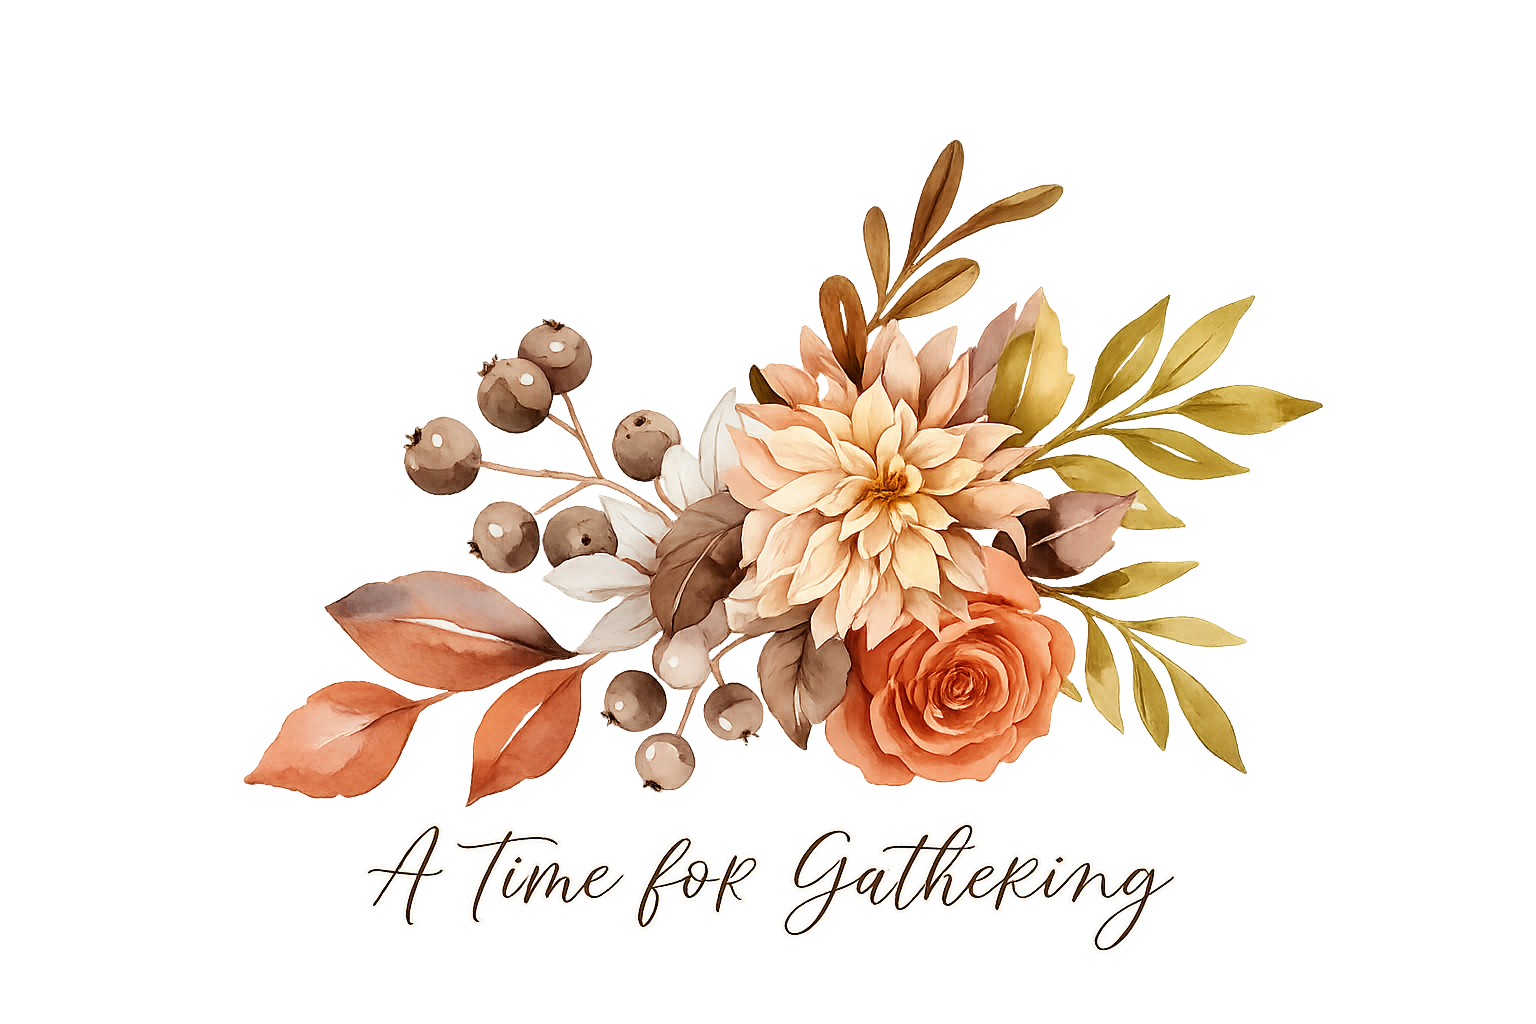
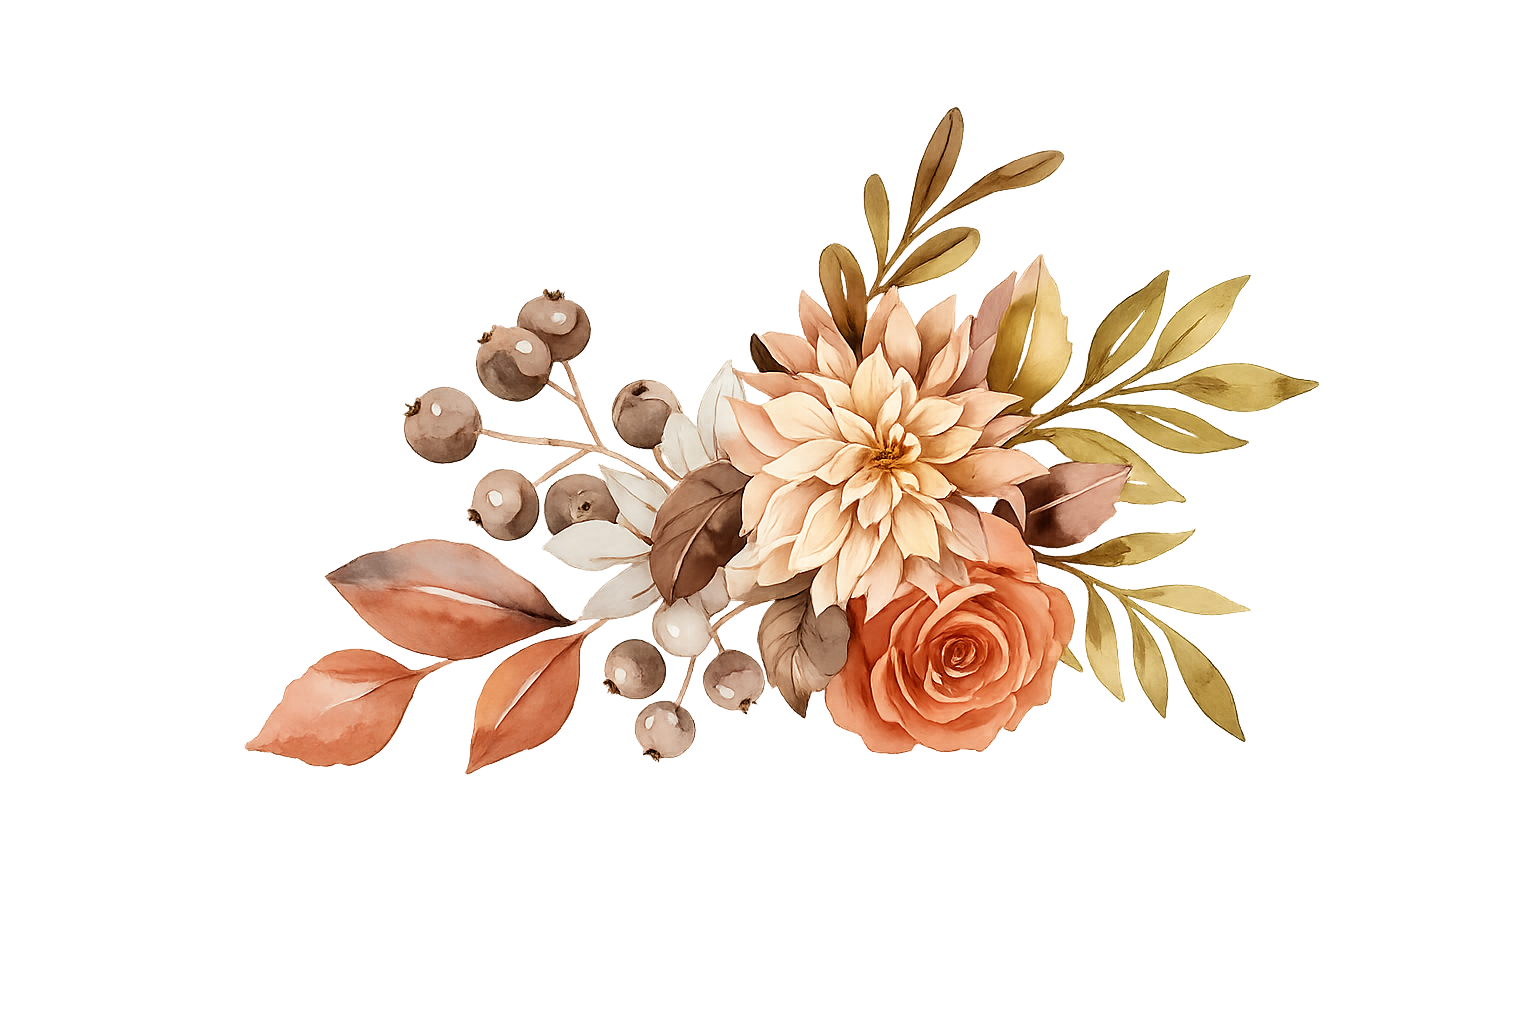
fix: actualizar Supabase anon key y agregar workflow keep-alive
- Reemplaza la clave incorrecta (sb_publishable_...) por el JWT válido en index.html (x2) y admin.html
- Agrega GitHub Action que hace ping a Supabase cada 3 días para evitar pausas por inactividad
- Nuevas fotos florales en assets/

Changed region(s): [[0.1562, 0.0938, 0.875, 0.7812], [0.25, 0.8125, 0.75, 0.9062]]

diff --git a/index.html b/index.html
@@ -155,18 +155,15 @@
                 width: 100%;
                 overflow: hidden;
                 line-height: 0;
+                position: relative;
             }
             .floral-band--top {
-                height: 150px;
-                display: flex;
-                align-items: flex-start;
-                justify-content: center;
+                height: 270px;
+                display: block;
             }
             .floral-band--bottom {
-                height: 150px;
-                display: flex;
-                align-items: flex-end;
-                justify-content: center;
+                height: 290px;
+                display: block;
             }
             .floral-band__img {
                 width: 100%;
@@ -174,12 +171,14 @@
                 display: block;
                 opacity: 0.9;
             }
-            .floral-band--top .floral-band__img {
-                margin-top: -2.5rem;
-            }
-            .floral-band--bottom .floral-band__img {
-                transform: rotate(180deg);
-                margin-bottom: -2.5rem;
+            /* =============================================
+       BLOCK: floral-deco  (corner / edge decorators)
+       ============================================= */
+            .floral-deco {
+                position: absolute;
+                pointer-events: none;
+                display: block;
+                mix-blend-mode: multiply;
             }
 
             /* =============================================
@@ -239,7 +238,7 @@
        BLOCK: inv-header
        ============================================= */
             .inv-header {
-                padding: 0 2.5rem 3rem;
+                padding: 0.75rem 2.5rem 3rem;
                 text-align: center;
             }
             .inv-header__verse {
@@ -376,12 +375,12 @@
                 margin: 0.5rem 0;
             }
             .ornament-divider__img {
-                width: 52px;
+                width: 180px;
                 height: auto;
-                opacity: 0.6;
+                mix-blend-mode: multiply;
             }
             .ornament-divider--flipped .ornament-divider__img {
-                transform: rotate(180deg);
+                transform: scaleX(-1) rotate(8deg);
             }
 
             /* =============================================
@@ -1315,6 +1314,10 @@
                 z-index: 9999;
                 pointer-events: none;
                 transition: opacity 1s cubic-bezier(0.4, 0, 0.2, 1);
+                animation: page-reveal-out 1s 0.8s forwards;
+            }
+            @keyframes page-reveal-out {
+                to { opacity: 0; visibility: hidden; }
             }
 
             /* Diagonal gold pattern on outer bg */
@@ -2070,13 +2073,11 @@
                     border-right-width: 8px;
                 }
 
-                .floral-band--top,
-                .floral-band--bottom {
-                    height: 180px;
-                }
+                .floral-band--top { height: 270px; }
+                .floral-band--bottom { height: 290px; }
 
                 .inv-header {
-                    padding: 0 3rem 3.5rem;
+                    padding: 0.75rem 3rem 3.5rem;
                 }
                 .inv-header__monogram {
                     font-size: 3.25rem;
@@ -2221,13 +2222,11 @@
                     right: -14px;
                 }
 
-                .floral-band--top,
-                .floral-band--bottom {
-                    height: 200px;
-                }
+                .floral-band--top { height: 300px; }
+                .floral-band--bottom { height: 310px; }
 
                 .inv-header {
-                    padding: 0 3.5rem 4rem;
+                    padding: 0.75rem 3.5rem 4rem;
                 }
                 .inv-header__monogram {
                     font-size: 3.5rem;
@@ -2622,16 +2621,30 @@
             <main class="invitation" role="main">
                 <!-- TOP FLORAL -->
                 <div class="floral-band floral-band--top" aria-hidden="true">
-                    <img
-                        class="floral-band__img"
-                        alt=""
-                        src="assets/floral.png"
-                    />
-                    <!--src="assets/floral.png"/>-->
+                    <!-- Esquina superior izquierda: arreglo aéreo espejado, grande -->
+                    <img class="floral-deco"
+                         src="assets/flores-5.png" alt=""
+                         style="width:290px; top:-10px; left:-40px; opacity:0.90; transform:scaleX(-1) rotate(-8deg);" />
+                    <!-- Esquina superior derecha: ramo completo coral, grande -->
+                    <img class="floral-deco"
+                         src="assets/flores-1.png" alt=""
+                         style="width:310px; top:-20px; right:-40px; opacity:0.88; transform:rotate(6deg);" />
+                    <!-- Centro: acento mínimo de ligazón, muy sutil -->
+                    <img class="floral-deco"
+                         src="assets/flores-4.png" alt=""
+                         style="width:130px; bottom:10px; left:50%; transform:translateX(-50%) rotate(-2deg); opacity:0.35;" />
                 </div>
 
                 <!-- HEADER -->
-                <section class="inv-header js-fade">
+                <section class="inv-header js-fade" style="position:relative; overflow:hidden;">
+                    <!-- Floral esquina derecha: girasol/pampas — pequeño, solo asoma -->
+                    <img class="floral-deco"
+                         src="assets/flores-3.png" alt=""
+                         style="width:145px; top:30px; right:-58px; opacity:0.42; transform:rotate(-12deg);" aria-hidden="true" />
+                    <!-- Floral esquina izquierda: arreglo aéreo — pequeño, solo asoma -->
+                    <img class="floral-deco"
+                         src="assets/flores-5.png" alt=""
+                         style="width:140px; top:60px; left:-58px; opacity:0.42; transform:scaleX(-1) rotate(8deg);" aria-hidden="true" />
                     <p class="inv-header__verse">
                         "Y sobre todas estas cosas,<br />
                         vístanse de amor, que es el<br />
@@ -2687,7 +2700,8 @@
                         <img
                             class="ornament-divider__img"
                             alt=""
-                            src="assets/floral.png"
+                            src="assets/flores-4.png"
+                            style="width:190px; transform:rotate(-2deg);"
                         />
                     </div>
 
@@ -2704,7 +2718,8 @@
                         <img
                             class="ornament-divider__img"
                             alt=""
-                            src="assets/floral.png"
+                            src="assets/flores-4.png"
+                            style="width:190px;"
                         />
                     </div>
 
@@ -2776,7 +2791,11 @@
                 </div>
 
                 <!-- EVENT DETAILS -->
-                <section class="event-info js-fade">
+                <section class="event-info js-fade" style="position:relative; overflow:hidden;">
+                    <!-- Floral lateral derecho sutil -->
+                    <img class="floral-deco"
+                         src="assets/flores-2.png" alt=""
+                         style="width:195px; top:15px; right:-55px; opacity:0.62; transform:rotate(-12deg);" aria-hidden="true" />
                     <svg
                         class="event-info__icon"
                         fill="none"
@@ -2829,7 +2848,11 @@
                 </section>
 
                 <!-- CÓMO LLEGAR -->
-                <section class="how-to-get js-fade">
+                <section class="how-to-get js-fade" style="position:relative; overflow:hidden;">
+                    <!-- Floral esquina superior derecha sutil -->
+                    <img class="floral-deco"
+                         src="assets/flores-2.png" alt=""
+                         style="width:175px; top:-5px; right:-55px; opacity:0.38; transform:rotate(-10deg);" aria-hidden="true" />
                     <h3 class="section-heading">¿Cómo Llegar?</h3>
                     <div class="how-to-get__cards">
 
@@ -2887,7 +2910,11 @@
                 </section>
 
                 <!-- ITINERARY -->
-                <section class="timeline js-fade">
+                <section class="timeline js-fade" style="position:relative; overflow:hidden;">
+                    <!-- Floral esquina izquierda sutil -->
+                    <img class="floral-deco"
+                         src="assets/flores-4.png" alt=""
+                         style="width:155px; top:10px; left:-48px; opacity:0.42; transform:rotate(8deg);" aria-hidden="true" />
                     <h3 class="section-heading">Itinerario</h3>
 
                     <div
@@ -2898,7 +2925,8 @@
                         <img
                             class="ornament-divider__img"
                             alt=""
-                            src="assets/floral.png"
+                            src="assets/flores-2.png"
+                            style="width:210px; opacity:0.78; transform:rotate(4deg);"
                         />
                     </div>
 
@@ -3044,7 +3072,11 @@
                 </div>
 
                 <!-- NUESTRA HISTORIA -->
-                <section class="story js-fade">
+                <section class="story js-fade" style="position:relative; overflow:hidden;">
+                    <!-- Floral lateral derecho, nuestra historia -->
+                    <img class="floral-deco"
+                         src="assets/flores-1.png" alt=""
+                         style="width:190px; top:10px; right:-50px; opacity:0.56; transform:rotate(-8deg);" aria-hidden="true" />
                     <h3 class="section-heading">Nuestra Historia</h3>
                     <div class="story__list">
                         <div class="story__item" style="transition-delay: 0.1s">
@@ -3087,7 +3119,11 @@
                 </section>
 
                 <!-- GALERÍA -->
-                <section class="gallery js-fade">
+                <section class="gallery js-fade" style="position:relative; overflow:hidden;">
+                    <!-- Floral esquina superior izquierda sutil -->
+                    <img class="floral-deco"
+                         src="assets/flores-5.png" alt=""
+                         style="width:160px; top:0px; left:-50px; opacity:0.40; mix-blend-mode:multiply; transform:scaleX(-1) rotate(5deg);" aria-hidden="true" />
                     <h3 class="section-heading">Nuestra Galería</h3>
                     <p style="font-family:var(--f-serif);font-style:italic;font-size:0.85rem;color:var(--c-text-light);margin:-1.25rem 0 2rem;line-height:1.8;">Momentos que atesoran nuestro amor</p>
 
@@ -3205,7 +3241,11 @@
                 </div>
 
                 <!-- DRESS CODE -->
-                <section class="dresscode js-fade">
+                <section class="dresscode js-fade" style="position:relative; overflow:hidden;">
+                    <!-- Floral lateral izquierdo sutil -->
+                    <img class="floral-deco"
+                         src="assets/flores-4.png" alt=""
+                         style="width:185px; top:15px; left:-50px; opacity:0.65; transform:rotate(10deg);" aria-hidden="true" />
                     <h3 class="section-heading">Código de Vestimenta</h3>
                     <p class="dresscode__style">Semi Formal</p>
                     <span class="dresscode__formal-lbl"
@@ -3283,7 +3323,11 @@
                 </section>
 
                 <!-- GIFTS -->
-                <section class="gifts js-fade">
+                <section class="gifts js-fade" style="position:relative; overflow:hidden;">
+                    <!-- Floral lateral izquierdo, regalos -->
+                    <img class="floral-deco"
+                         src="assets/flores-3.png" alt=""
+                         style="width:195px; top:10px; left:-55px; opacity:0.55; transform:scaleX(-1) rotate(6deg);" aria-hidden="true" />
                     <svg
                         class="gifts__icon"
                         fill="none"
@@ -3739,8 +3783,8 @@
                             <img
                                 class="ornament-divider__img"
                                 alt=""
-                                src="assets/floral.png"
-                                style="opacity:0.45;"
+                                src="assets/flores-4.png"
+                                style="width:150px; transform:rotate(-2deg); mix-blend-mode:screen; opacity:0.75;"
                             />
                         </div>
 
@@ -3753,13 +3797,19 @@
                     <div
                         class="floral-band floral-band--bottom"
                         aria-hidden="true"
-                        style="opacity:0.5;"
                     >
-                        <img
-                            class="floral-band__img"
-                            alt=""
-                            src="assets/floral.png"
-                        />
+                        <!-- Esquina inferior izquierda: ramo completo espejado -->
+                        <img class="floral-deco"
+                             src="assets/flores-1.png" alt=""
+                             style="width:300px; bottom:-10px; left:-35px; opacity:0.82; mix-blend-mode:screen; transform:scaleX(-1) rotate(5deg);" />
+                        <!-- Esquina inferior derecha: girasol/pampas -->
+                        <img class="floral-deco"
+                             src="assets/flores-3.png" alt=""
+                             style="width:285px; bottom:-10px; right:-35px; opacity:0.80; mix-blend-mode:screen; transform:rotate(-4deg);" />
+                        <!-- Centro superior de la banda: arreglo horizontal que une -->
+                        <img class="floral-deco"
+                             src="assets/flores-2.png" alt=""
+                             style="width:220px; top:5px; left:50%; mix-blend-mode:screen; transform:translateX(-50%) rotate(3deg); opacity:0.55;" />
                     </div>
                 </footer>
             </main>
@@ -4123,7 +4173,7 @@
                                 "img{max-width:100%}</style></head>" +
                                 "<body><img src='" + dataUrl + "'/>" +
                                 "<p style='text-align:center;color:rgba(255,255,255,0.3);font-family:sans-serif;font-size:12px;margin-top:8px'>Mantén presionada la imagen para guardarla</p>" +
-                                "</body></html>"
+                                "<\/body><\/html>"
                             );
                         }
                     } else {
@@ -4228,7 +4278,7 @@
                 var SUPABASE_URL =
                     "https://kdpgdgulrekryxqtewtr.supabase.co";
                 var SUPABASE_ANON_KEY =
-                    "sb_publishable_7qv3hB-J6RqLsJZyMcpTgA_9bQorv4O";
+                    "eyJhbGciOiJIUzI1NiIsInR5cCI6IkpXVCJ9.eyJpc3MiOiJzdXBhYmFzZSIsInJlZiI6ImtkcGdkZ3VscmVrcnl4cXRld3RyIiwicm9sZSI6ImFub24iLCJpYXQiOjE3NzgzNTI0NDEsImV4cCI6MjA5MzkyODQ0MX0.T6_iQjxOWX82QQHPuBI5cewOoT3UWsOQ7bvjX9GP82E";
                 var code = new URLSearchParams(window.location.search).get(
                     "code",
                 );
@@ -4370,7 +4420,7 @@
             /* === RSVP === */
             (function () {
                 var SUPABASE_URL = "https://kdpgdgulrekryxqtewtr.supabase.co";
-                var SUPABASE_ANON_KEY = "sb_publishable_7qv3hB-J6RqLsJZyMcpTgA_9bQorv4O";
+                var SUPABASE_ANON_KEY = "eyJhbGciOiJIUzI1NiIsInR5cCI6IkpXVCJ9.eyJpc3MiOiJzdXBhYmFzZSIsInJlZiI6ImtkcGdkZ3VscmVrcnl4cXRld3RyIiwicm9sZSI6ImFub24iLCJpYXQiOjE3NzgzNTI0NDEsImV4cCI6MjA5MzkyODQ0MX0.T6_iQjxOWX82QQHPuBI5cewOoT3UWsOQ7bvjX9GP82E";
 
                 var COUPLE_PHONE = "527721204509";
                 var family = null;

diff --git a/admin.html b/admin.html
@@ -1269,7 +1269,7 @@
 
         <script>
             var SUPABASE_URL = "https://kdpgdgulrekryxqtewtr.supabase.co";
-            var SUPABASE_ANON_KEY = "sb_publishable_7qv3hB-J6RqLsJZyMcpTgA_9bQorv4O";
+            var SUPABASE_ANON_KEY = "eyJhbGciOiJIUzI1NiIsInR5cCI6IkpXVCJ9.eyJpc3MiOiJzdXBhYmFzZSIsInJlZiI6ImtkcGdkZ3VscmVrcnl4cXRld3RyIiwicm9sZSI6ImFub24iLCJpYXQiOjE3NzgzNTI0NDEsImV4cCI6MjA5MzkyODQ0MX0.T6_iQjxOWX82QQHPuBI5cewOoT3UWsOQ7bvjX9GP82E";
             var ADMIN_PASSWORD = "KarlaEduardo2026"; // Cambia esta contraseña
 
             var allData = [];
